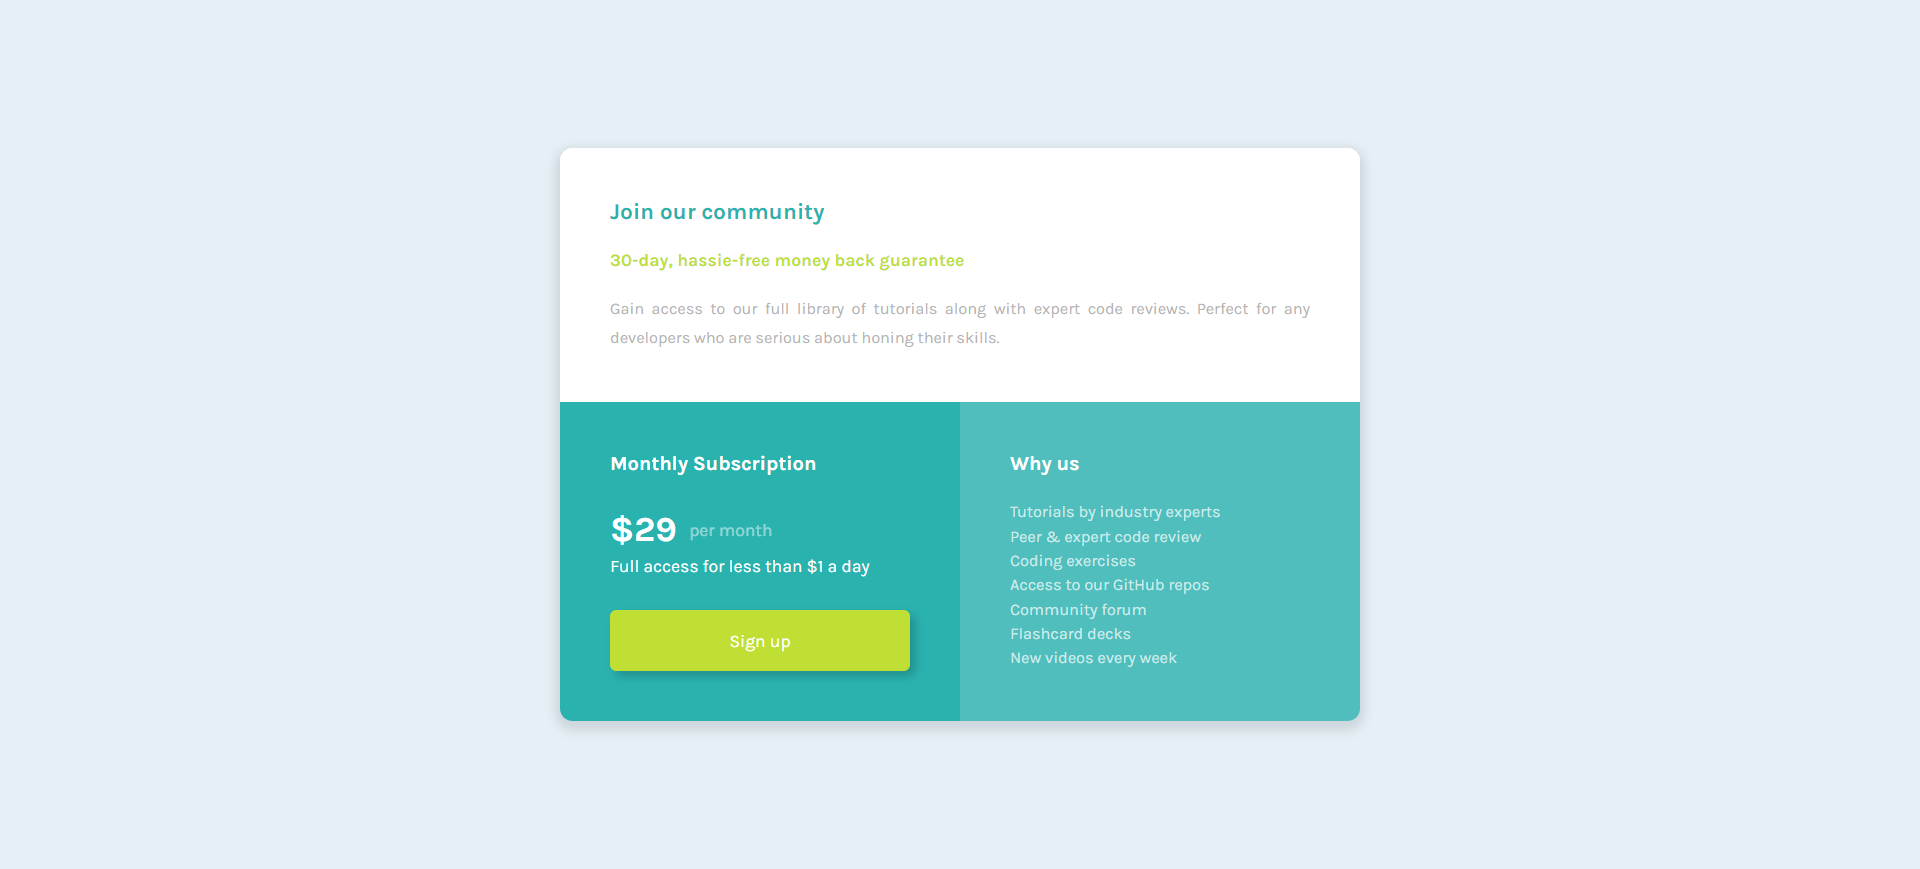
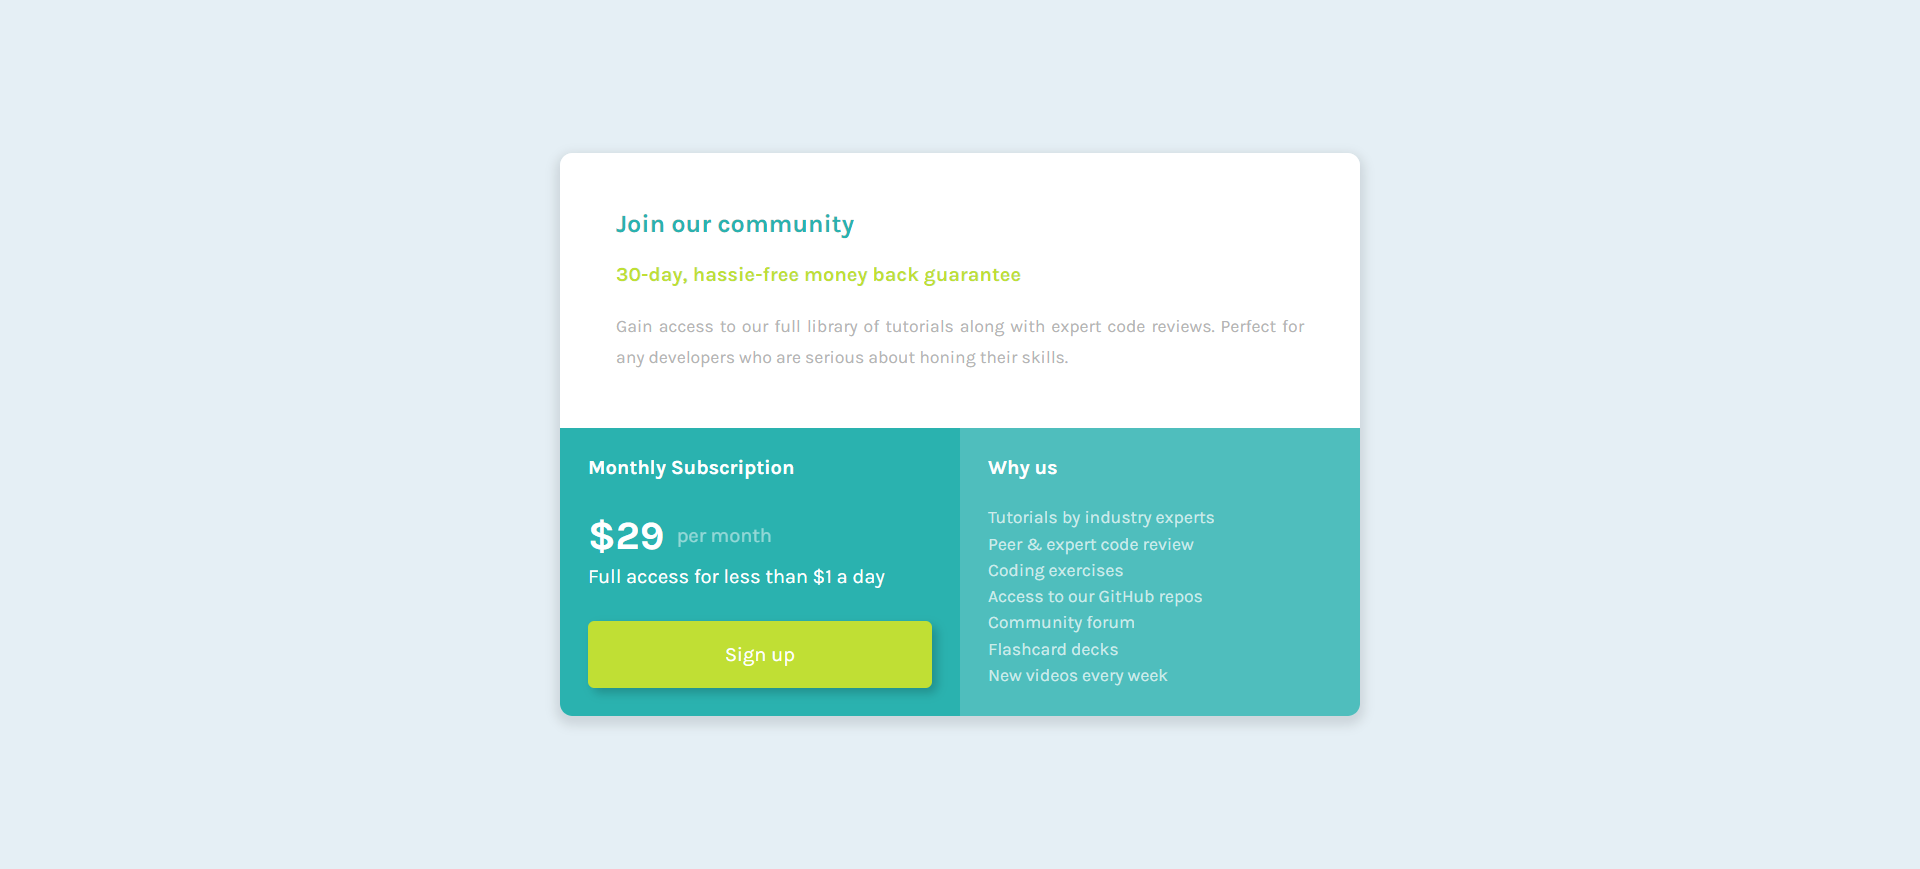
adjusted links in README file, increased font size, used main landmark and translated code from portuguese to english

diff --git a/style.css b/style.css
@@ -1,7 +1,7 @@
 @import url('https://fonts.googleapis.com/css2?family=Karla:wght@400;700&display=swap');
 
-/* Todo o código foi feito para dispositivos móveis */
-/*______________________________________ Layout geral ______________________________________*/
+/* This code was made for mobile devices */
+/*______________________________________ General layout ______________________________________*/
 
 * {
     margin: 0;
@@ -15,17 +15,18 @@
 body {
     background-color: hsl(204, 43%, 93%);
     display: grid;
-    place-content: center; /* Os itens grid (é um só: o div.container) serão centralizados no body */
+    place-content: center; /* Grid items (there's just one: div.container) will be centralized within body */
 }
 
-.container {
+main {
     box-shadow: 0 4px 8px 4px rgba(0, 0, 0, 0.1);
     margin: 0 8%;
     border-radius: 10px;
-    overflow: hidden; /* O valor default de qualquer div é visible, i.e., seu conteúdo pode ser renderizado para fora dos seus limites. Sem definir o valor hidden, não tem como fazer as bordas arredondadas, porque as bordas das divs filhas a ultrapassam e são renderizadas normalmente em vez de ficarem escondidas. */
+    overflow: hidden; /* The default value for any div is visible, i.e., its content may be rendered outside its limits. 
+    If you don't define this property as hidden, you can't make rounded corners, because its children div borders overflow it and are rendered instead of being hidden. */
 }
 
-.container > * {
+main > * {
     padding: 7%;
     display: grid;
     grid-gap: 20px;
@@ -46,29 +47,28 @@ body {
     grid-area: w;
 }
 
-.informativo-preco {
+.price-information {
     display: flex;
     gap: 10px;
     align-items: center;
     margin-bottom: 5px;
 }
 
-/*______________________________________ Textos ______________________________________*/
+/*______________________________________ Texts ______________________________________*/
 h1 {
-    font-size: 18px;
+    font-size: 20px;
     color: hsl(179, 62%, 43%);
     font-weight: bold;
 }
 
-.texto-amarelo {
+.yellow-text {
     color: hsl(71, 73%, 54%);
     font-weight: bold;
-    font-size: 14px;
 }
 
-.texto-cinza {
+.gray-text {
     color: rgb(180, 180, 180);
-    font-size: 13px;
+    font-size: 14px;
     line-height: 1.75em;
 }
 
@@ -76,18 +76,13 @@ h2 {
     color: white;
 }
 
-.preco {
-    font-size: 28px;
+.price {
+    font-size: 32px;
     font-weight: bold;
 }
 
 .per-month {
     opacity: 0.5;
-    font-size: 14px;
-}
-
-.full-access {
-    font-size: 14px;
 }
 
 button {
@@ -95,7 +90,6 @@ button {
     border-radius: 5px;
     border: none;
     padding: .9em;
-    font-size: 14px;
     font-style: bold;
     width: 100%;
     text-align: center;
@@ -103,7 +97,7 @@ button {
 }
 
 li {
-    font-size: 13px;
+    font-size: 14px;
     line-height: 1.5em;
     color: rgba(255, 255, 255, 0.7);
 }
@@ -113,9 +107,9 @@ ul {
     list-style-type: none;
 }
 
-/* Alterações para tablets e dispositivos maiores */
+/* Changes for tablets and bigger screens */
 @media screen and (min-width: 768px) {
-    .container {
+    main {
         display: grid;
         grid-template:
         "j j"
@@ -124,7 +118,7 @@ ul {
         width: 640px;
         margin: 0;
     }
-    .container > * {
+    main > * {
         padding: 40px;
     }
 }

diff --git a/index.html b/index.html
@@ -1,4 +1,4 @@
-<html lang="pt-br">
+<html lang="en">
 <head>
     <meta charset="UTF-8">
     <meta name="viewport" content="width=device-width, initial-scale=1.0">
@@ -6,17 +6,17 @@
     <link rel="stylesheet" href="style.css">
 </head>
 <body>
-    <div class="container">
+    <main>
         <div class="join">
             <h1>Join our community</h1>
-            <p class="texto-amarelo">30-day, hassie-free money back guarantee</p>
-            <p class="texto-cinza">Gain access to our full library of tutorials along with expert code reviews. Perfect for any developers who are serious about honing their skills.</p>
+            <p class="yellow-text">30-day, hassie-free money back guarantee</p>
+            <p class="gray-text">Gain access to our full library of tutorials along with expert code reviews. Perfect for any developers who are serious about honing their skills.</p>
         </div>
         <div class="monthly">
             <h2>Monthly Subscription</h2>
             <div>
-                <div class="informativo-preco">
-                    <p class="preco">$29</p>
+                <div class="price-information">
+                    <p class="price">$29</p>
                     <p class="per-month">per month</p>
                 </div>
                 <p class="full-access">Full access for less than $1 a day</p>
@@ -35,7 +35,7 @@
                 <li>New videos every week</li>
             </ul>
         </div>
-    </div>
+    </main>
     
 </body>
 </html>

diff --git a/README.md b/README.md
@@ -30,8 +30,8 @@ Users should be able to:
 
 ### Links
 
-- Solution URL: (https://github.com/liviagomesa/join-our-community)
-- Live Site URL: (https://liviagomesa.github.io/join-our-community/)
+- [Solution URL](https://github.com/liviagomesa/join-our-community)
+- [Live Site URL](https://liviagomesa.github.io/join-our-community/)
 
 ## My process
 
@@ -61,7 +61,9 @@ Users should be able to:
 ```
 
 4. To add opacity to a color, replace "rgb" (or "hsl") with "rgba" (or hsla) and add a third value between 0 and 1, like this:
+```css
 rgba(0, 0, 0, 0.1);
+```
 
 5. To set margin, padding and similar properties values, the syntax is:
 4 values: top right bottom left (clockwise)
@@ -97,11 +99,13 @@ I'm not completely comfortable with the concepts and techniques below - but I th
 - defining page's layout (columns and rows)
 - content overflow
 
+I could have used cards instead of grids to define the layout.
+
 ### Useful resources
 
-- (https://www.w3schools.com/css/css3_shadows_box.asp) - Syntax for CSS box shadow
-- (https://developer.mozilla.org/en-US/docs/Web/CSS/grid-template) - grid-template
-- (https://stackoverflow.com/questions/8582176/should-border-radius-clip-the-content) - This helped me to find out why I couldn't set rounded corners for my main container: The default overflow for <div> elements is visible, so its content may be rendered outside the block box. I've changed it to hidden and the problem was solved.
+- [Syntax for CSS box shadow - w3schools](https://www.w3schools.com/css/css3_shadows_box.asp)
+- [grid-template CSS property - mozilla.org](https://developer.mozilla.org/en-US/docs/Web/CSS/grid-template)
+- [Should border-radius clip the content? - stackoverflow](https://stackoverflow.com/questions/8582176/should-border-radius-clip-the-content) - This helped me to find out why I couldn't set rounded corners for my main container: The default overflow for <div> elements is visible, so its content may be rendered outside the block box. I've changed it to hidden and the problem was solved.
 
 ## Author
 
